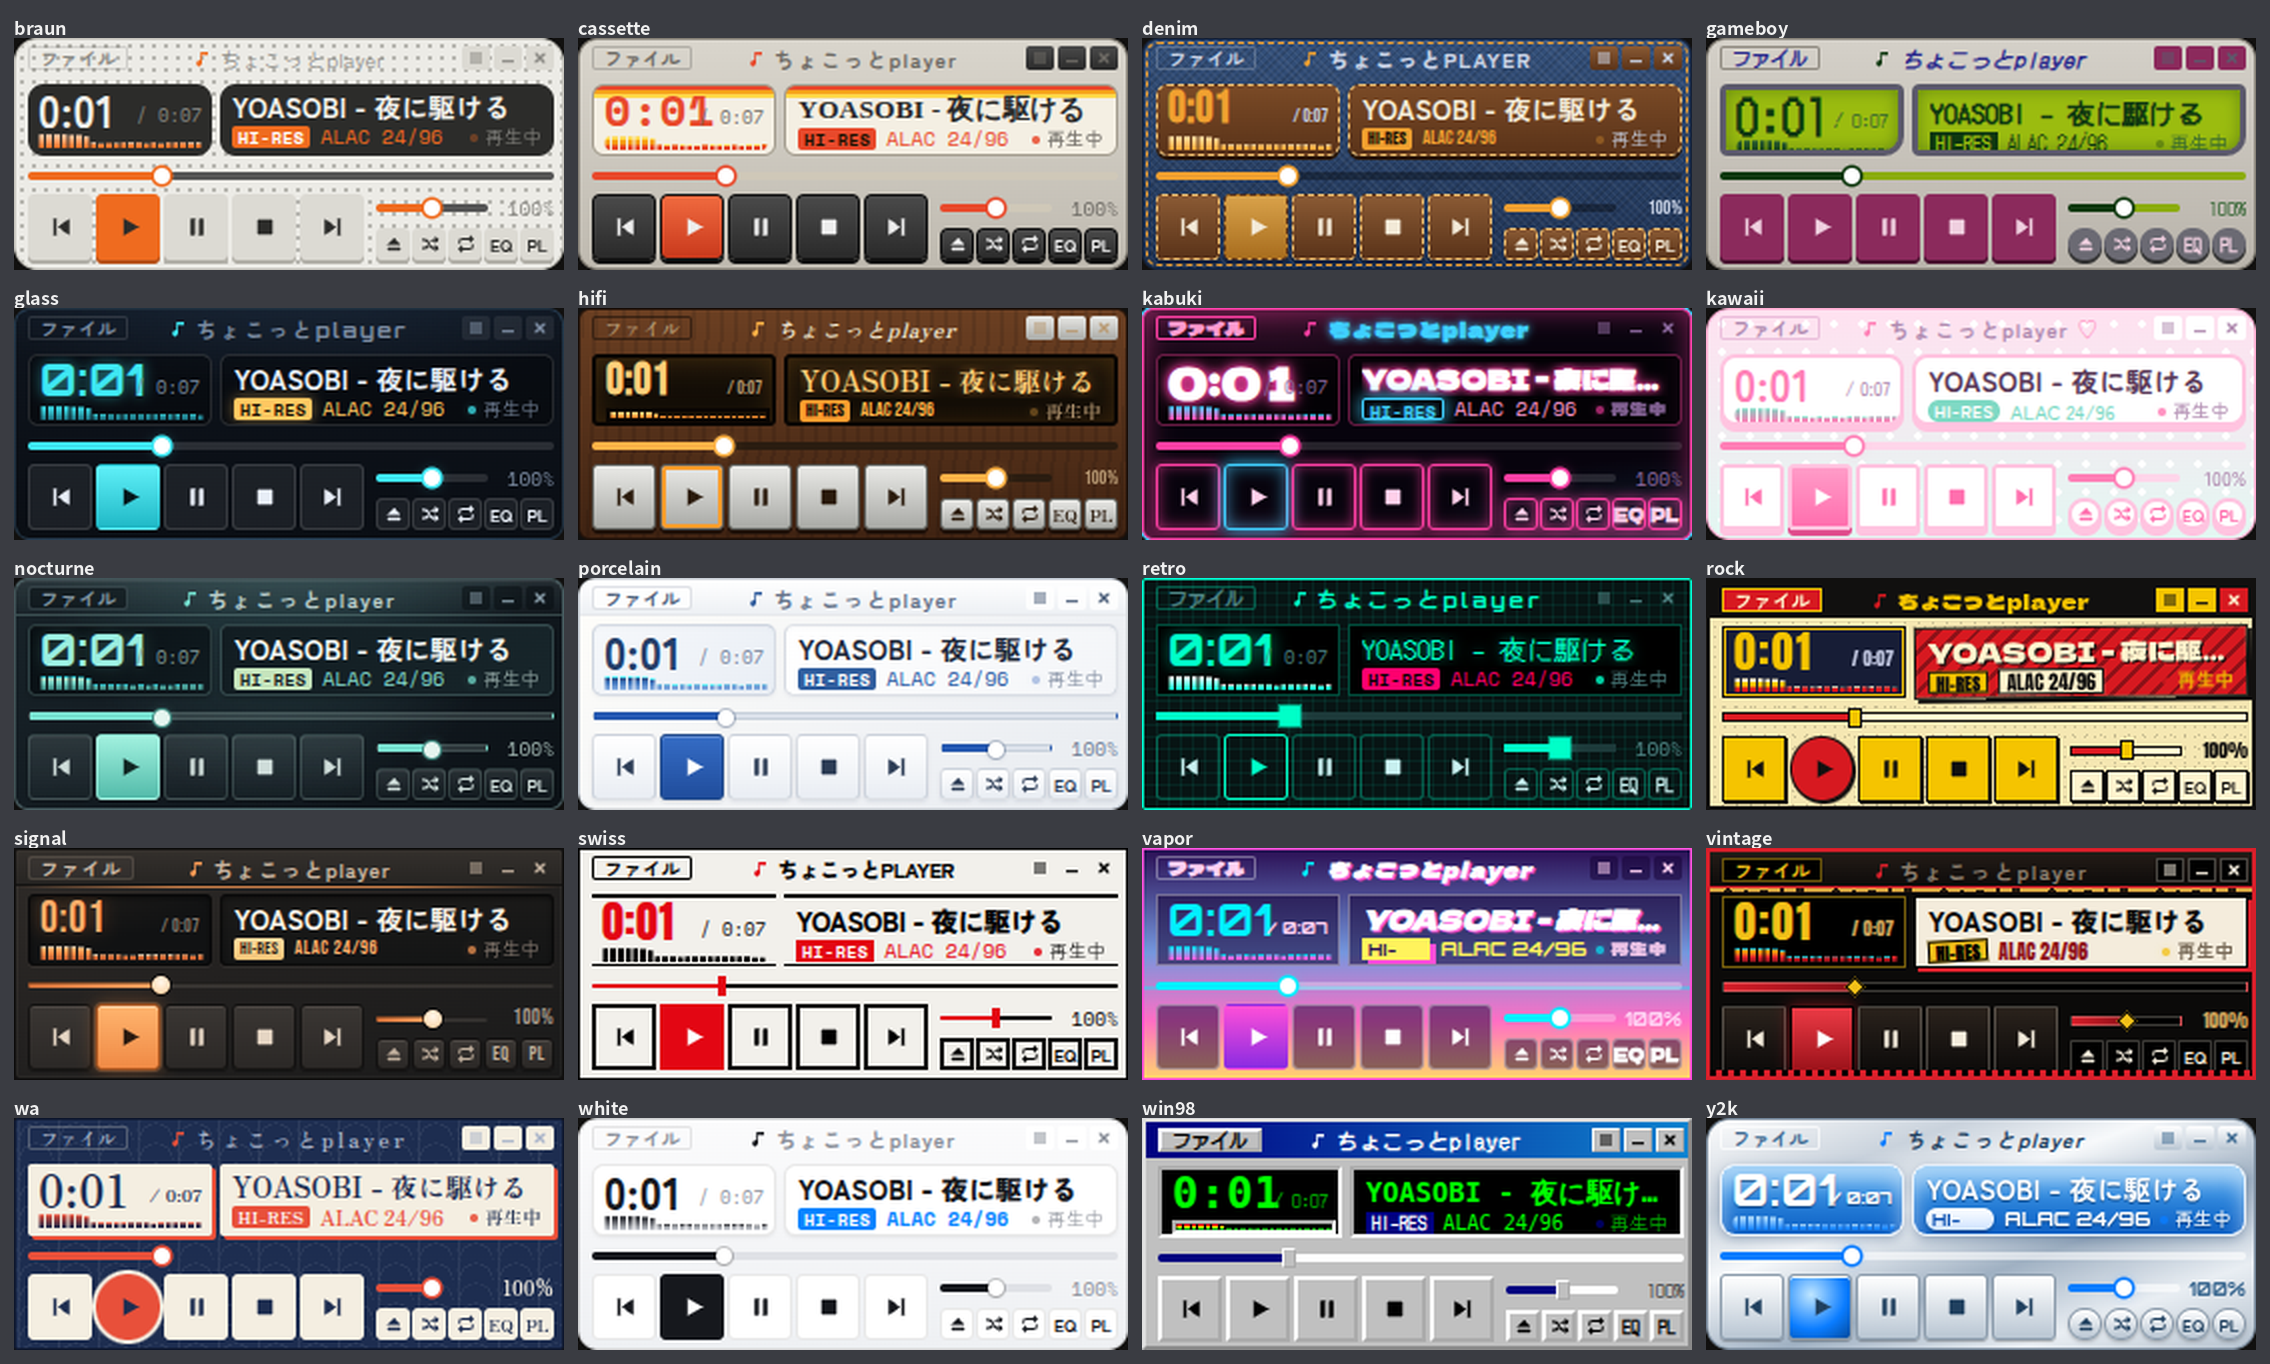
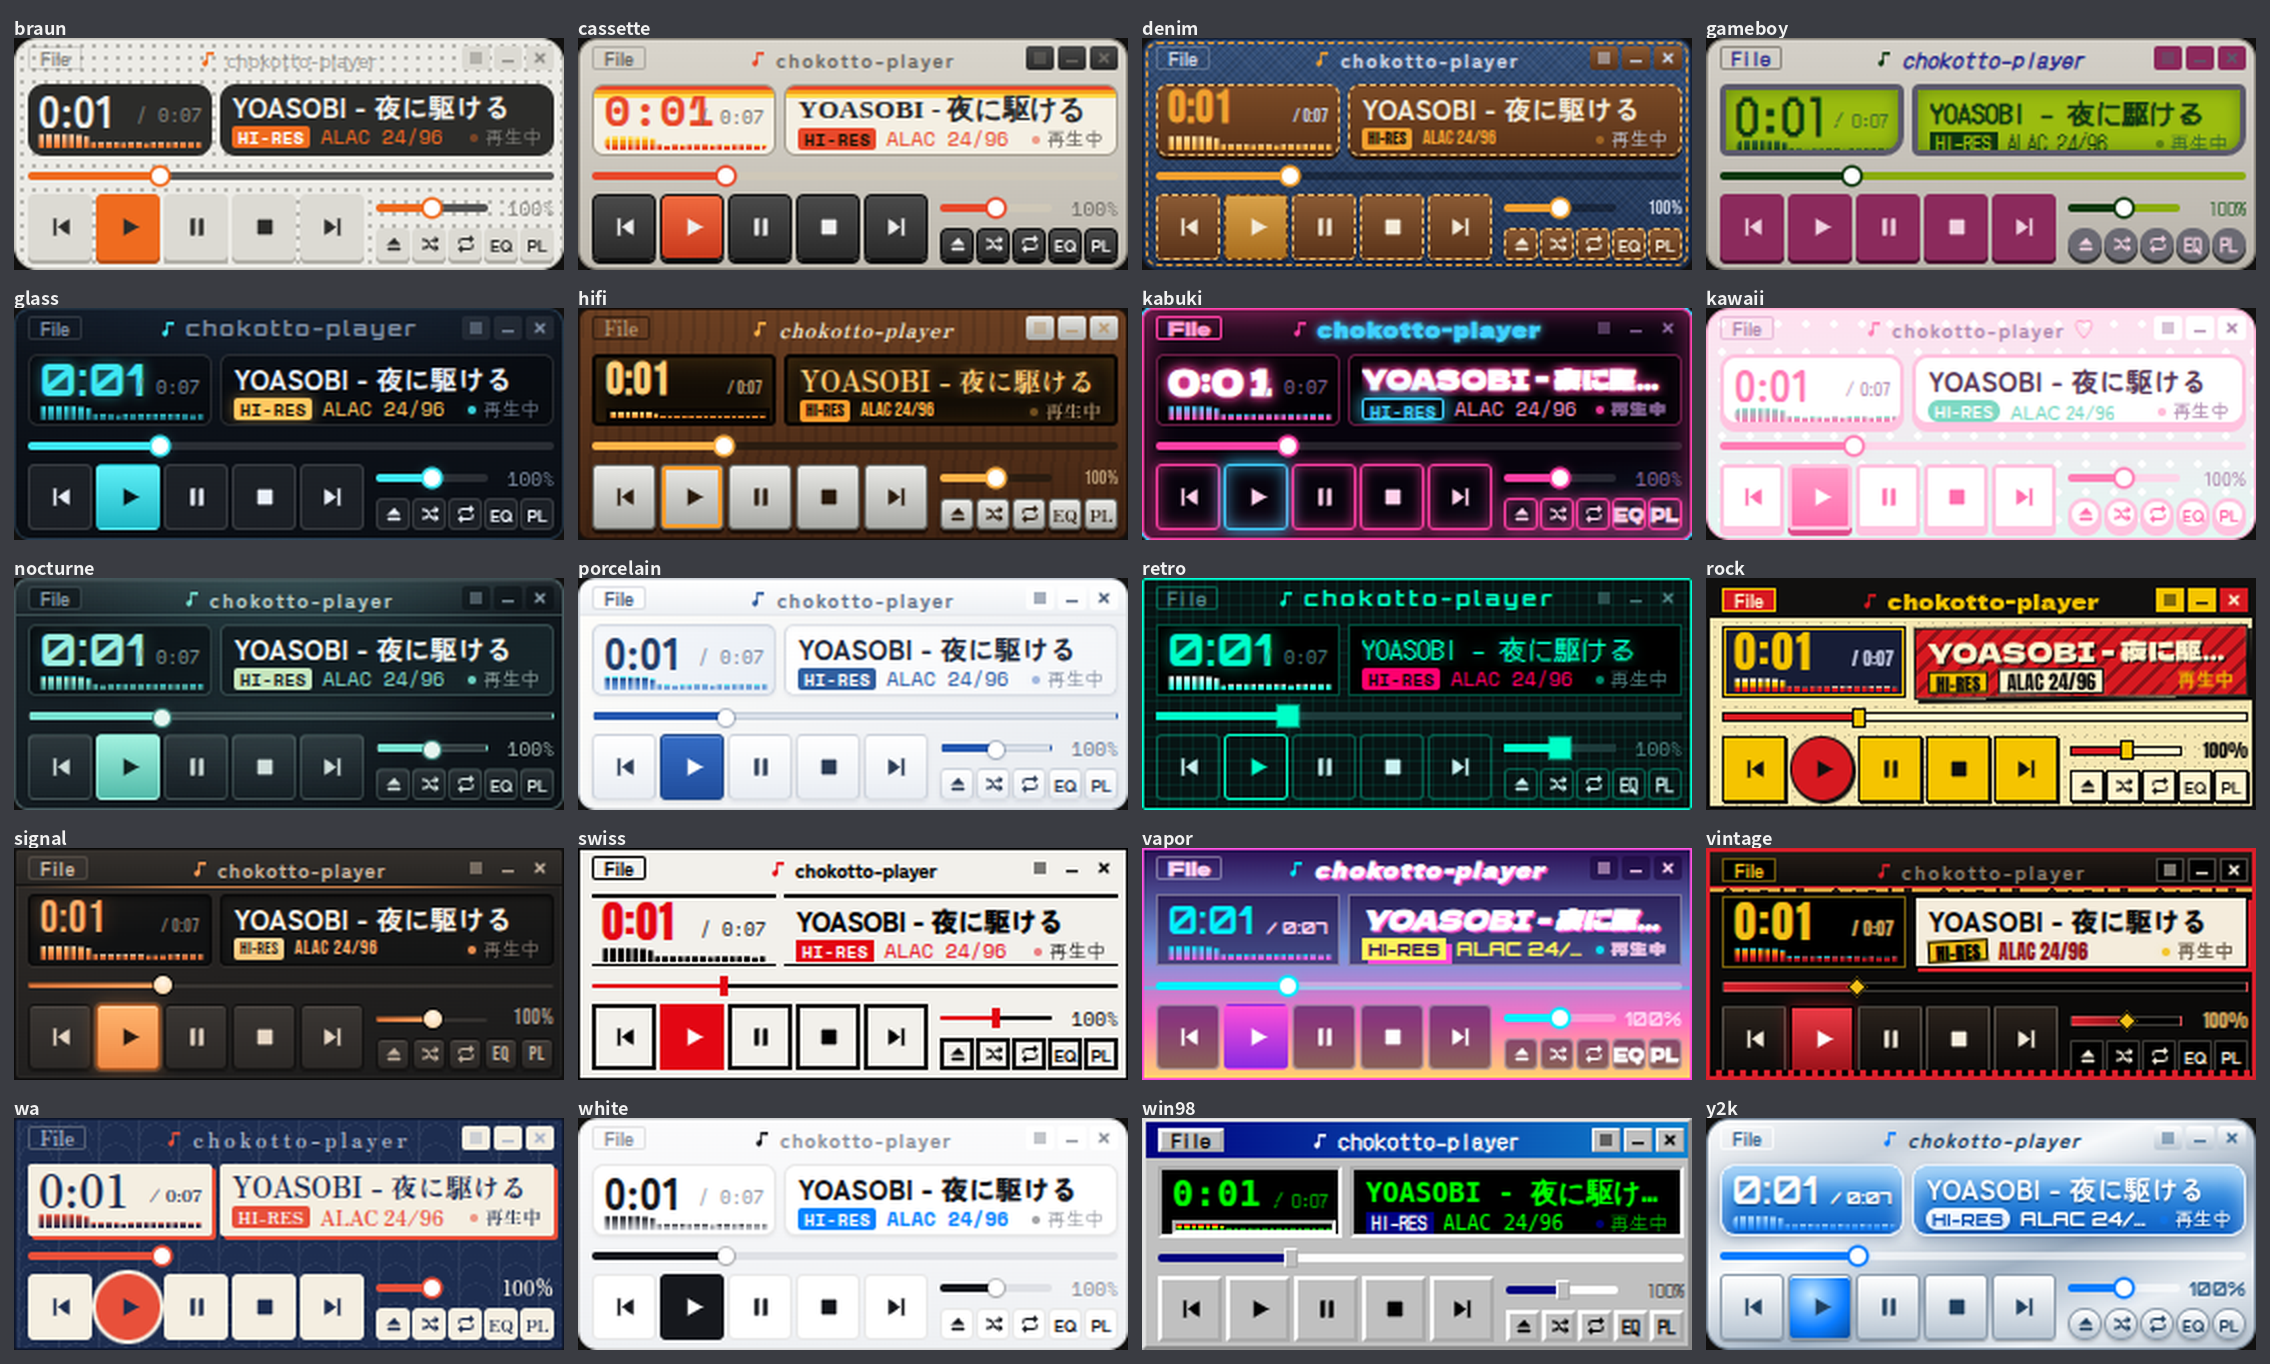
README: SHA-256 と画像を更新
Claude-Session: https://claude.ai/code/session_012ooFn2vyp5FHXT51KxN8Ji

diff --git a/README.md b/README.md
@@ -33,8 +33,8 @@
 ## ファイルの確認（SHA-256）
 
 ```
-71db00bade7c8fb9356de50acddb318f76d417faffa14afed76c8a6924f4186f  chokotto-player-1.1.1-setup.exe
-64b6ae6c73b0ce6cf2669eb60a532e9d4ee6cd74087e492490d1b5c5ca514939  chokotto-player-1.1.1-portable.zip
+569481e4fdc37f46b16eeed95a130d41bb9ff07ec100adfbbfae9e855aaeb013  chokotto-player-1.1.1-setup.exe
+23eefec3ef90c8a51b596273398e0aae6c46546fd0d8c1d3db4ee6d0304eeae0  chokotto-player-1.1.1-portable.zip
 ```
 
 PowerShell で `Get-FileHash .\ファイル名` と打つと確かめられます。
